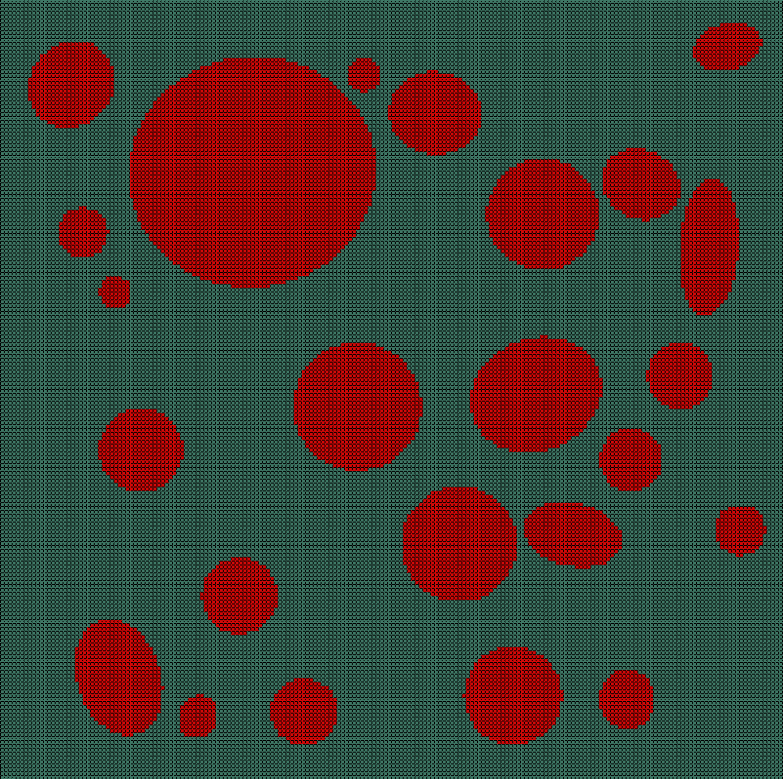
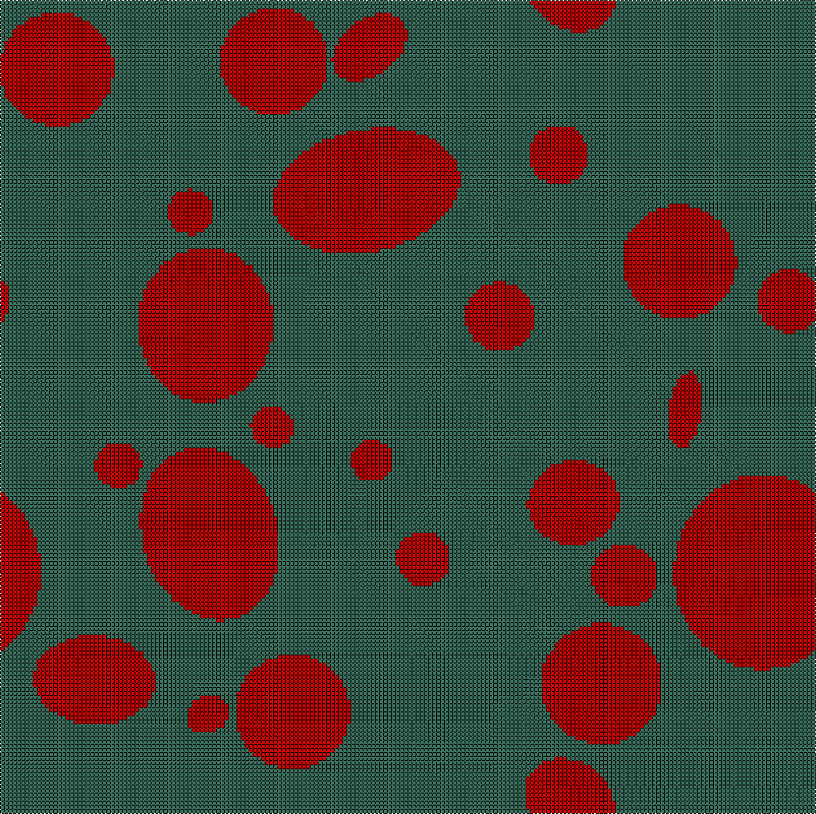
- Fixed examples c9, c10, and c11.

diff --git a/examples/ex_c11_shape_dispersion_vf.py b/examples/ex_c11_shape_dispersion_vf.py
@@ -19,8 +19,7 @@ min_valid_r = 4 * part.voxel_size[0]
 
 # Create a ShapeArray based on the VoxelPart object.
 shape_disp_array_obj = ShapeDispersionArray(dim='2D', part=part,
-                                            num_bound_pixels=num_bound_pixels,
-                                            short_msg=True)
+                                            num_bound_pixels=0, wrap_mask=True, short_msg=True)
 
 # Request the circles.
 # Note that the boundary for RandomDispersion instances
@@ -38,7 +37,7 @@ ellipse_a = TruncatedNormalDistributionDispersion(target_mean=0.06, target_std=0
 ellipse_aspect_ratio = TruncatedNormalDistributionDispersion(target_mean=1, target_std=0.25, bound_a=0.1)
 ellipse_xc = RandomDispersion(0, part.real_size[0])
 ellipse_yc = RandomDispersion(0, part.real_size[1])
-ellipse_alpha = RandomDispersion(low=0, high=360)
+ellipse_alpha = RandomDispersion(low=0, high=180)
 shape_disp_array_obj.add_shape_request(num_shapes=None, cls=EllipseFromAspectRatio,
                                        xc=ellipse_xc, yc=ellipse_yc, alpha=ellipse_alpha,
                                        a=ellipse_a, aspect_ratio=ellipse_aspect_ratio,

diff --git a/examples/ex_c10_shape_dispersion_number.py b/examples/ex_c10_shape_dispersion_number.py
@@ -19,8 +19,7 @@ min_valid_r = 4 * part.voxel_size[0]
 
 # Create a ShapeArray based on the VoxelPart object.
 shape_disp_array_obj = ShapeDispersionArray(dim='2D', part=part,
-                                            num_bound_pixels=num_bound_pixels,
-                                            short_msg=True)
+                                            num_bound_pixels=0, wrap_mask=True, short_msg=True)
 
 # Request the circles.
 num_circle = 10
@@ -39,7 +38,7 @@ ellipse_aspect_ratio = TruncatedNormalDistributionDispersion(num_values=num_elli
                                                              target_mean=0.75, target_std=0.75, bound_a=0.1)
 ellipse_xc = RandomDispersion(0, part.real_size[0])
 ellipse_yc = RandomDispersion(0, part.real_size[1])
-ellipse_alpha = RandomDispersion(low=0, high=360)
+ellipse_alpha = RandomDispersion(low=0, high=180)
 shape_disp_array_obj.add_shape_request(num_shapes=num_ellipse, cls=EllipseFromAspectRatio,
                                        xc=ellipse_xc, yc=ellipse_yc, alpha=ellipse_alpha,
                                        a=ellipse_a, aspect_ratio=ellipse_aspect_ratio,

diff --git a/examples/ex_c9_shape_array.py b/examples/ex_c9_shape_array.py
@@ -8,7 +8,7 @@ part = VoxelPart(size=(50, 50), base_material=1, voxel_size=(0.02, 0.02), name='
                  description='A 2D square 50*50 part containing an array of different shapes.', log_debug=True)
 
 # Create a ShapeArray based on the VoxelPart object.
-shape_array_obj = ShapeArray(dim='2D', part=part)
+shape_array_obj = ShapeArray(dim='2D', part=part, wrap_mask=True)
 
 # Add shapes to shape_disp_array_obj.
 # Note that the class object is passed as the first argument.
